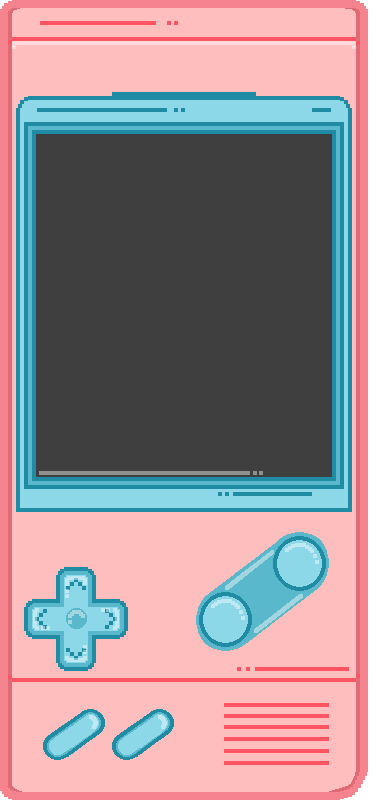
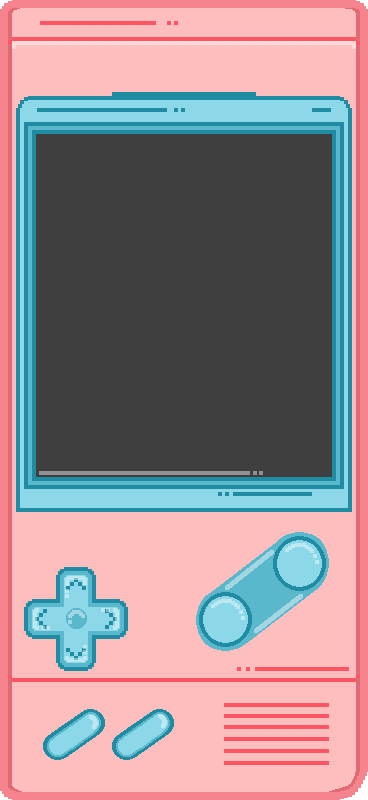
feat: game ver2 added

Changed region(s): [[0.0, 0.0, 1.0, 1.0], [0.4484, 0.0, 0.4783, 0.0312]]

diff --git a/src/pages/MbtiGame2.tsx b/src/pages/MbtiGame2.tsx
@@ -1,6 +1,6 @@
 import { useState } from "react";
 import "./MbtiGame.css";
-import GAMEBOY from "../assets/images/gameboy.png";
+import GAMEBOY from "../assets/images/gameboy2.png";
 import { mbtiNames } from "../types/type";
 
 interface Question {
@@ -10,74 +10,79 @@ interface Question {
 
 const questions: Question[] = [
   {
-    question:
-      "카페 앞에서 대만 군을 만났다! 그런데 왠지 오래 기다린 것 같다...",
+    question: "카페 앞에서 양호열을 만났다! 그런데 옷에 힘을 좀 준 것 같다...",
     options: [
-      { text: "대만 군, 안녕? 웬일로 먼저 나왔어?", value: "T" },
-      { text: "대만 군, 오래 기다렸어? 더 빨리 나올 걸 그랬네...", value: "F" },
+      { text: "그 옷 뭐냐? 평소엔 그렇게 안 입잖아.", value: "T" },
+      { text: "어, 그 옷 너한테 잘 어울린다. 멋지네.", value: "F" },
     ],
   },
   {
-    question: "대만 군이 약속을 착각했다고 한다...",
+    question: "약속 시간을 착각해 좀 일찍 나왔다 고백했는데 별 말을 안 한다...",
     options: [
-      { text: "바보 같은데 귀엽다.", value: "F" },
-      { text: "다리 아플 텐데 들어가서 쉬지.", value: "T" },
+      { text: "(별 생각 없다.)", value: "S" },
+      { text: "왜 아무 말도 안 하지? 바보 같다고 생각하나?", value: "F" },
     ],
   },
   {
-    question: "카페에 들어왔다. 같이 앉을 자리는?",
+    question: "같이 카페에 들어왔다! 이 때, 정대만의 시선을 사로잡은 건...",
     options: [
-      { text: "창가 쪽 경치를 구경할 수 있는 예쁜 테이블", value: "F" },
-      { text: "주변에 사람이 없고 움직이기 편하고 실용적인 자리", value: "T" },
+      { text: "이 카페에서만 구경할 수 있을 것 같은 참신한 DP", value: "F" },
+      { text: "카페 메뉴판, 그리고 화장실 위치.", value: "T" },
     ],
   },
   {
-    question: "자리를 골랐다. 음료를 주문하려 하는데, 이때...",
+    question: "자리를 고르고 음료를 주문 하려고 하는데, 이때...",
     options: [
-      { text: "(오늘이 마지막일 수 있다.) 내가 다 낼게.", value: "P" },
       {
-        text: "(오늘만 날은 아니다. 훗날을 도모하며) 대만 군, 내가 케이크 살까?",
+        text: "(형아임을 보여주고 싶다. 충동적으로) 내가 살게. 넌 가만히 있어.",
+        value: "P",
+      },
+      {
+        text: "(이따 또 어디 갈 수도 있으니까.) 여긴 네가 사라. 이따 저녁을 내가 살게.",
         value: "J",
       },
     ],
   },
   {
     question:
-      "음료를 주문하고 자리로 돌아가려는데 누군가 대만 군에게 음료를 쏟았다!",
+      "음료를 주문하고 자리로 돌아가는데, 누가 양호열에게 음료를 쏟았다!",
     options: [
-      { text: "정신 똑바로 안 차려? 노려본다.", value: "P" },
       {
-        text: "화가 나지만 당장 정대만 옷 상태부터 체크한다.",
-        value: "J",
+        text: "헉, 괜찮아? 휴지 갖고 올까?! (당황해서 허둥지둥 한다.)",
+        value: "F",
+      },
+      {
+        text: "헉, 많이 쏟았냐? 세탁소 갈 정도야? (옷 상태부터 확인한다.)",
+        value: "T",
       },
     ],
   },
   {
-    question: "우여곡절 끝에 자리로 돌아왔다. 대만 군이 갑자기 멋지다고 한다.",
+    question: "자리로 돌아왔는데 양호열이 의외로 세심하다고 말한다.",
     options: [
-      { text: "멋진가? 대만 군 눈에 멋졌으면 됐지.", value: "S" },
+      { text: "세심하단 말 들은 적 없는데 말해주니 기분은 좋다.", value: "S" },
       {
-        text: "(너와 결혼까지 생각했어! 상상의 나래 펼치기.)",
+        text: "뭐지 이 자식 갑자기 이렇게 말하니까 좀 달라 보인다... 잘생겨 보이는 것 같기도...",
         value: "N",
       },
     ],
   },
   {
-    question: "대만 군이 갑자기 케이크를 먹여주려고 한다. '아 해봐, 아~'",
+    question: "양호열이 민망해 하더니 자기 음료도 마셔보라고 한다.",
     options: [
-      { text: "별 생각없이 받아 먹는다.", value: "S" },
+      { text: "오 땡큐. 별 생각없이 받아 마신다.", value: "S" },
       {
-        text: "이거 받아 먹으면 우리 오늘부터 1일? 무수한 생각이 든다.",
+        text: "이 자식 이거 무슨 생각이지? 이거 간접 뭐랬는데, 뭐였더라? (생각 삼매경에 빠진다.)",
         value: "N",
       },
     ],
   },
   {
-    question: "어찌저찌 마친 카페 데이트! 이젠 고백하고 싶다.",
+    question: "어찌저찌 마친 카페 데이트! 다음에 또 놀러 나오자고 말하고 싶다.",
     options: [
-      { text: "에라 모르겠다! 분위기에 맡겨 고백한다.", value: "P" },
+      { text: "지금 말 안 하면 언제 해! 충동적으로 말한다.", value: "P" },
       {
-        text: "이 순간만을 기다렸다. 달달 외운 멘트를 줄줄 왼다.",
+        text: "양호열 눈치를 보다가 기분 좋아 보일 때 조심스럽게 말한다.",
         value: "J",
       },
     ],
@@ -93,8 +98,8 @@ function MbtiGame() {
   // MBTI 결과 계산
   const calculateMBTI = () => {
     const result: Record<string, number> = {
-      E: 0,
-      I: 1,
+      E: 1,
+      I: 0,
       S: 0,
       N: 0,
       T: 0,
@@ -147,7 +152,7 @@ function MbtiGame() {
       {!isStarted ? (
         // 시작하기 버튼
         <div className="button-wrapper">
-          <button className="start gbtn" onClick={startGame}>
+          <button className="restart gbtn" onClick={startGame}>
             시작하기
           </button>
           <button className="quit gbtn">끝내기</button>
@@ -157,7 +162,7 @@ function MbtiGame() {
           {mbtiResult ? (
             // MBTI 결과 표시
             <div className="result">
-              <h3>호열이의 🩷 타입은?</h3>
+              <h3>대만이의 🩷 타입은?</h3>
               <p className="mbti-name">{mbtiNames[mbtiResult]}</p>
               <button className="quit gbtn" onClick={restartGame}>
                 돌아가기
@@ -174,7 +179,7 @@ function MbtiGame() {
                   (option, index) => (
                     <button
                       key={index}
-                      className="option gbtn"
+                      className="dm-option gbtn"
                       onClick={() => handleAnswer(option.value)}
                     >
                       {option.text}

diff --git a/src/routes.tsx b/src/routes.tsx
@@ -4,6 +4,7 @@ import Info from "./pages/Info";
 import NotFound from "./pages/404";
 import DateLog from "./pages/DateLog";
 import MbtiGame from "./pages/MbtiGame";
+import MbtiGame2 from "./pages/MbtiGame2";
 
 const Router = () => {
   return (
@@ -13,7 +14,8 @@ const Router = () => {
           <Route path="/" element={<App />} />
           <Route path="/love-and-ball" element={<Info />} />
           <Route path="/date-log" element={<DateLog />} />
-          <Route path="/hydm-game" element={<MbtiGame />} />
+          <Route path="/hy-luv-game" element={<MbtiGame />} />
+          <Route path="/dm-luv-game" element={<MbtiGame2 />} />
           <Route path="/*" element={<NotFound />} />
         </Routes>
       </BrowserRouter>

diff --git a/src/pages/MbtiGame.css b/src/pages/MbtiGame.css
@@ -2,7 +2,6 @@
   position: relative;
   width: 100%;
   height: 100vh;
-  background-color: #fff;
   display: flex;
   justify-content: center;
   align-items: center;
@@ -51,8 +50,8 @@ button:focus:not(:focus-visible) {
 }
 
 .restart {
-  background-color: #2dc35a;
-  border: 4px solid #1b8b3d;
+  background-color: #c0e490;
+  border: 4px solid #6a9e25;
 }
 
 .question-box {
@@ -78,6 +77,15 @@ button:focus:not(:focus-visible) {
   align-items: center;
   flex-direction: column;
   gap: 10px;
+}
+
+.dm-option {
+  background-color: #c0e490;
+  border: 4px solid #6a9e25;
+  width: 250px;
+  color: black;
+  font-size: 10px;
+  font-weight: normal;
 }
 
 .option {

diff --git a/dev-dist/sw.js b/dev-dist/sw.js
@@ -82,7 +82,7 @@ define(['./workbox-b5f7729d'], (function (workbox) { 'use strict';
     "revision": "3ca0b8505b4bec776b69afdba2768812"
   }, {
     "url": "index.html",
-    "revision": "0.vbumn5m431"
+    "revision": "0.ou787p1jd6"
   }], {});
   workbox.cleanupOutdatedCaches();
   workbox.registerRoute(new workbox.NavigationRoute(workbox.createHandlerBoundToURL("index.html"), {
